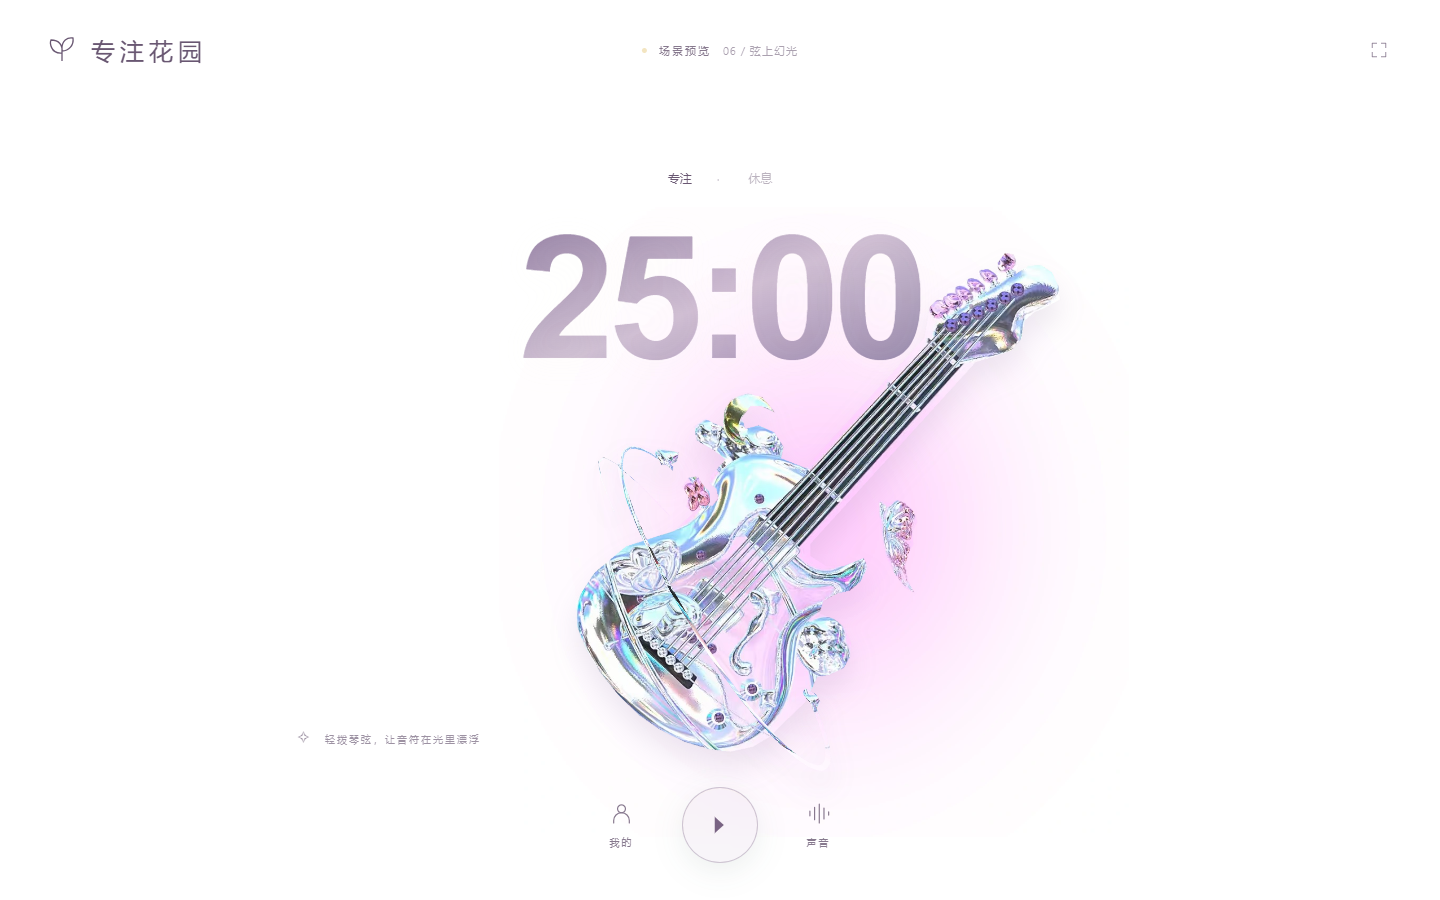
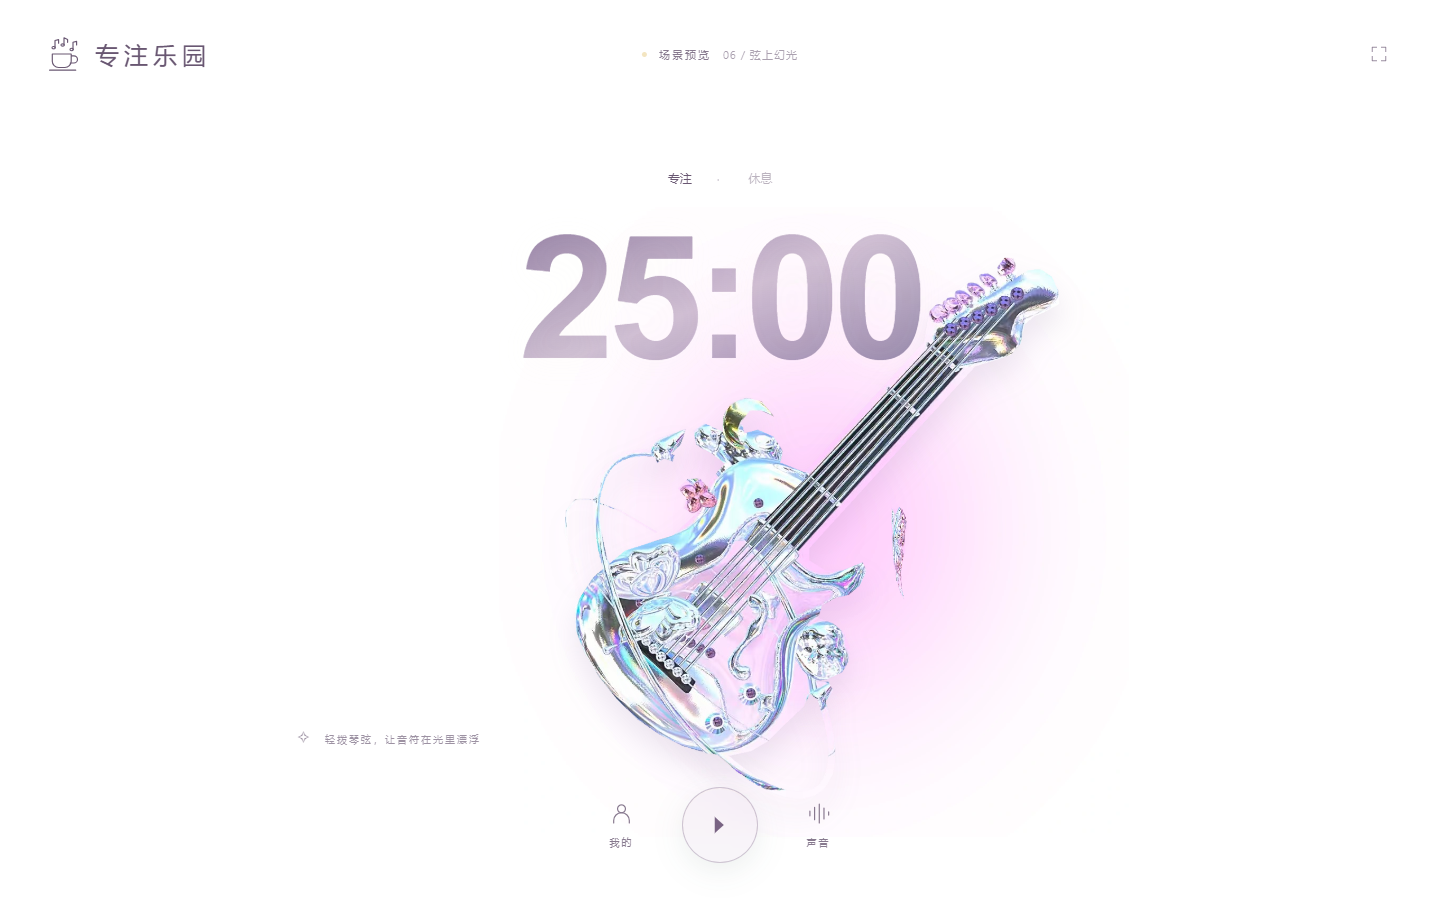
docs: record 44 passing checks and refresh guitar preview

Changed region(s): [[0.375, 0.28, 0.75, 0.8711], [0.0312, 0.0311, 0.1562, 0.0933], [0.4688, 0.0311, 0.5312, 0.0622]]

diff --git a/TEST_RESULTS.md b/TEST_RESULTS.md
@@ -168,3 +168,17 @@
 
 ### 专注乐园品牌更新（2026-10-23）
 `node --test --test-concurrency=1 tests/issue-2.test.cjs`：5 项通过。运行与休息标题、咖啡杯与三个可见音符、旧花园备份恢复与新名称导出、本地 SVG 页签、音符动画及减少动态偏好正常。
+
+## 吉他、学习雨声与专注乐园最终验收（2026-10-23）
+
+命令：`node --test --test-concurrency=1`。
+结果：44 项通过、0 项失败、0 跳过，耗时约 142 秒。
+
+三个独立实现提交：
+- `3bb6e36`：第六素材原图分层吉他、悬浮/环绕/振翅、C D E F G A B 七音与有效测试。
+- `1ffd74d`：连续均匀立体声学习雨声，替换稀疏滴音与对应检查。
+- `aa57f34`：专注乐园新名、咖啡杯与三个音符、页签、旧备份兼容及品牌检查。
+
+完整回归覆盖六套场景、命中互动/误触、原翻书频率、真实音频解码播放、静音/音量/互斥、计时设置、旧数据恢复、新文件名导出、日期解锁资格与预览隔离。每个测试使用独立浏览器数据；未修改用户原专注记录。测试还检查无运行错误及无外网请求。
+
+吉他画面为原图分层的 2.5D 投影，非完整三维模型；粉白背景延展，动态遮挡随位置变化。七音与雨声是原创程序合成，非乐器/自然实录，主观音色与视觉还需用户试听验收。最新实际页面预览在 `scenes/crystal-guitar/preview.png`，入口 `http://127.0.0.1:8765/?preview=crystal-guitar`；从底部声音选择轻雨试听。

diff --git a/scenes/README.md b/scenes/README.md
@@ -8,6 +8,8 @@
 | `dream-ocean/` | 参考原视频蓝色色调的微光鱼海，配置、说明和预览图 |
 | `rain-window/` | 白日薄雾雨窗、模糊绿树、闪光雨珠及擦雾互动，独立绘制与预览图 |
 | `dandelion-night/` | 第四素材：克莱因蓝月夜、柔黄无纹理大月亮、左密右疏的银白星光蒲公英、自然轻飘与点击飘散，独立配置、绘制和预览 |
+| `book-pages/` | 第五素材：原视频书本图集、自动与点击翻页、纸张声及预览 |
+| `crystal-guitar/` | 第六素材：银色吉他原图分层、悬浮/环转/振翅、七音拨弦及预览 |
 | `shared/pond.js` | 两套鱼群场景共用的追光、水纹和绘制引擎 |
 | `shared/renderer.js` | 场景挂载和退出清理，避免多套动画及输入监听同时运行 |
 | `catalog.js` | 场景登记、日期判断和每日轮换规则 |
@@ -24,6 +26,8 @@
 - 蓝色版：http://127.0.0.1:8765/?preview=dream-ocean
 - 雨窗版：http://127.0.0.1:8765/?preview=rain-window
 - 蒲公英版：http://127.0.0.1:8765/?preview=dandelion-night
+- 翻书版：http://127.0.0.1:8765/?preview=book-pages
+- 吉他版：http://127.0.0.1:8765/?preview=crystal-guitar
 
 这些链接是制作时的验收入口，不增加首页任意切换场景的按钮。日常仍按完成周期后次日更换的规则运行。
 
